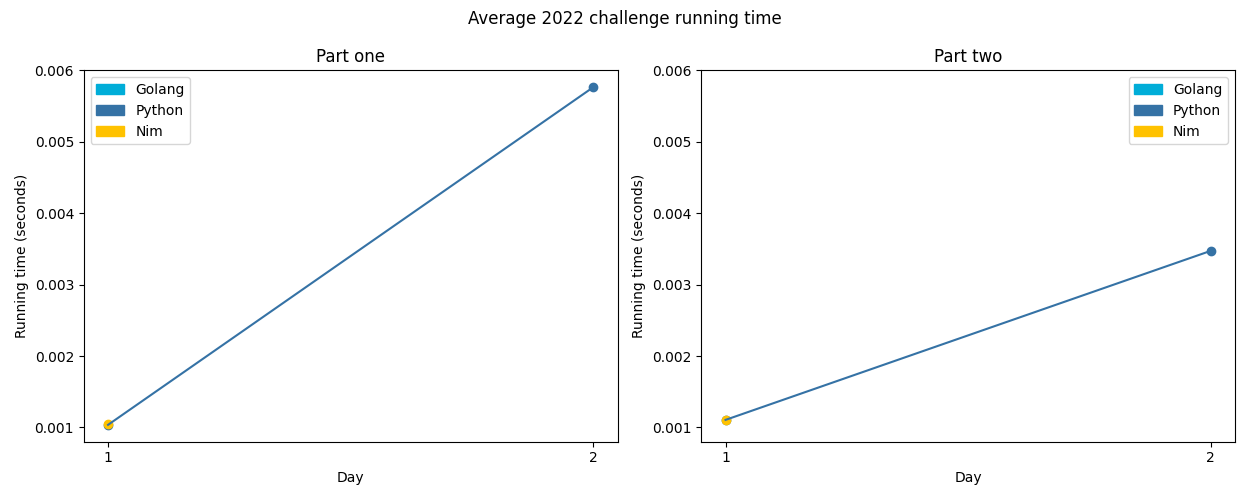
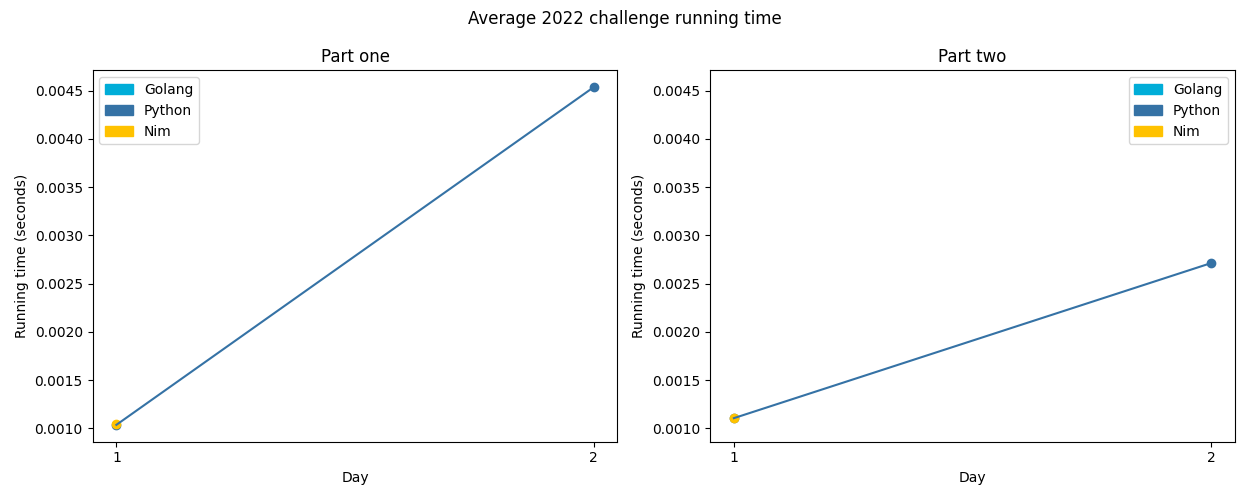
Alter 3 files
Update `benchmark.json`
Update `__init__.py`
Update `running-times.png`

diff --git a/challenges/2022/02-rockPaperScissors/py/__init__.py b/challenges/2022/02-rockPaperScissors/py/__init__.py
@@ -22,6 +22,15 @@ SCORES = {
 }
 
 
+magic_beans = [SCISSORS, ROCK, PAPER, SCISSORS, ROCK]
+
+outcome_offsets = {
+    WIN: 1,
+    LOSE: -1,
+    DRAW: 0,
+}
+
+
 def parse(instr: str) -> List[Match]:
     return [x.split(" ") for x in instr.strip().splitlines()]
 
@@ -41,26 +50,18 @@ class Challenge(BaseChallenge):
 
             if m[0] == m[1]:
                 score += SCORES[DRAW]
-            elif (
-                (m[1] == ROCK and m[0] == SCISSORS)
-                or (m[1] == PAPER and m[0] == ROCK)
-                or (m[1] == SCISSORS and m[0] == PAPER)
-            ):
-                score += SCORES[WIN]
+            else:
+                opponent = magic_beans.index(m[1], 1)
+                ours = magic_beans.index(m[0], opponent-1, opponent+2)
+                
+                if opponent - ours == outcome_offsets[WIN]:
+                    score += SCORES[WIN]
 
         return score
 
     @staticmethod
     def two(instr: str) -> int:
         inp = parse(instr)
-
-        magic_beans = [SCISSORS, ROCK, PAPER, SCISSORS, ROCK]
-
-        outcome_offsets = {
-            WIN: 1,
-            LOSE: -1,
-            DRAW: 0,
-        }
 
         score = 0
         for m in inp:
